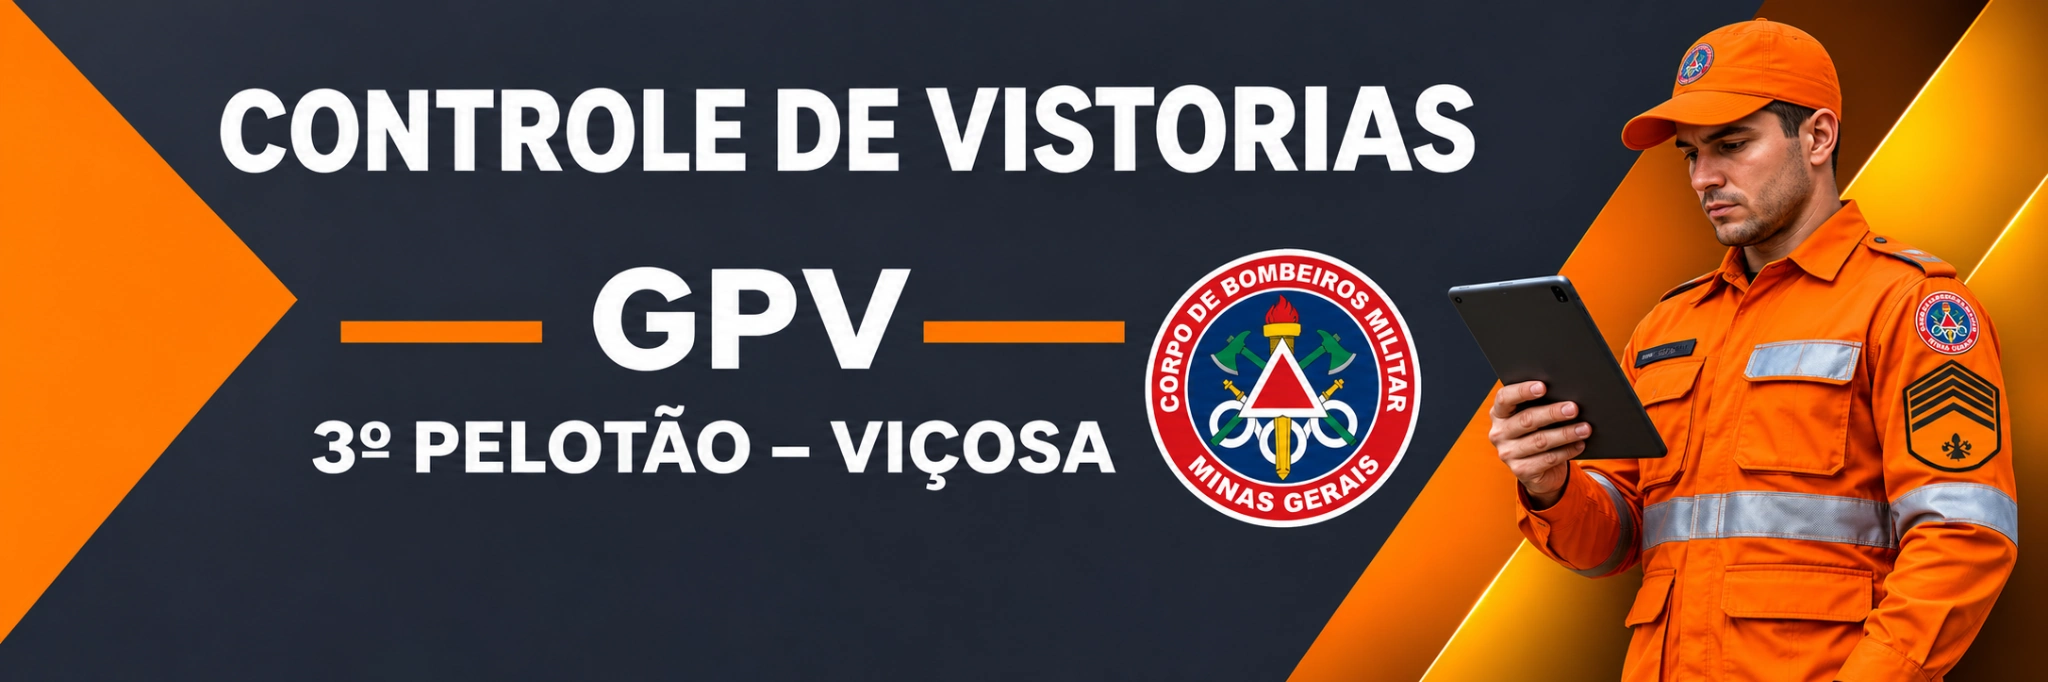
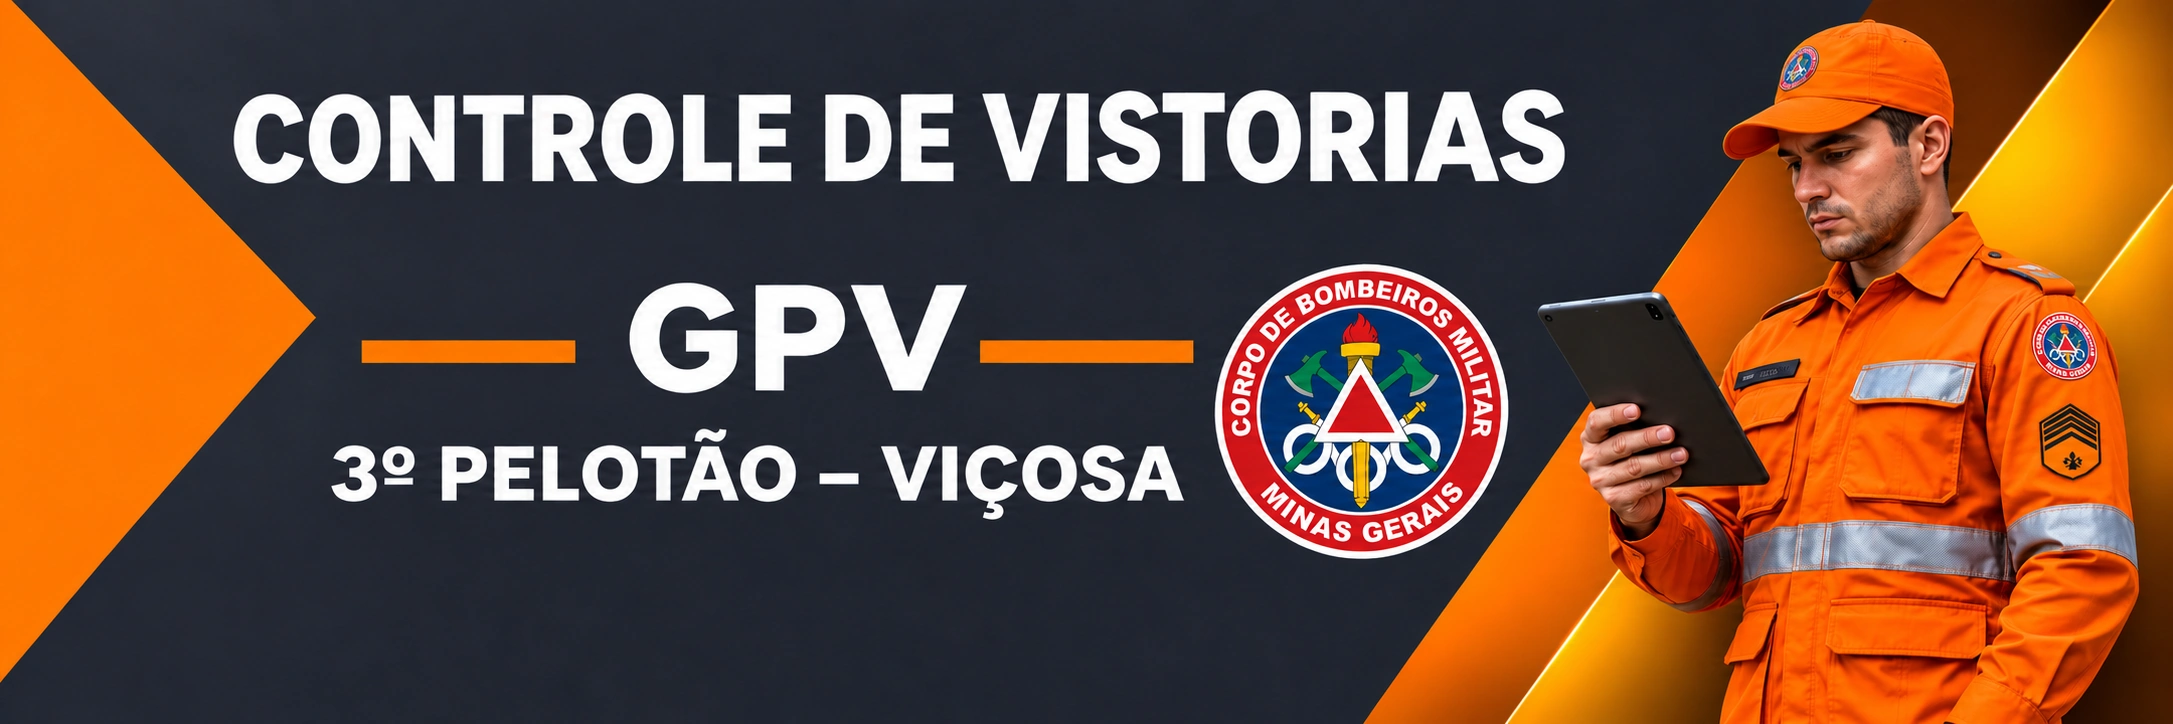
Add files via upload

diff --git a/index.html b/index.html
@@ -18,8 +18,8 @@
   <meta property="og:title" content="App do Vistoriador">
   <meta property="og:description" content="Aplicativo de apoio a vistoria, com suporte offline.">
   <meta property="og:url" content="https://gpvvicosa.github.io/controle-fiscalizatorio-gpv/">
-  <meta property="og:image" content="https://gpvvicosa.github.io/controle-fiscalizatorio-gpv/assets/miniatura-app-vistoriador-ch.jpg?v=23.9.99kg">
-  <meta property="og:image:secure_url" content="https://gpvvicosa.github.io/controle-fiscalizatorio-gpv/assets/miniatura-app-vistoriador-ch.jpg?v=23.9.99kg">
+  <meta property="og:image" content="https://gpvvicosa.github.io/controle-fiscalizatorio-gpv/assets/miniatura-app-vistoriador-ch.jpg?v=23.9.99kh">
+  <meta property="og:image:secure_url" content="https://gpvvicosa.github.io/controle-fiscalizatorio-gpv/assets/miniatura-app-vistoriador-ch.jpg?v=23.9.99kh">
   <meta property="og:image:type" content="image/jpeg">
   <meta property="og:image:width" content="1200">
   <meta property="og:image:height" content="675">
@@ -29,7 +29,7 @@
   <meta name="twitter:card" content="summary_large_image">
   <meta name="twitter:title" content="App do Vistoriador">
   <meta name="twitter:description" content="Aplicativo de apoio a vistoria, com suporte offline.">
-  <meta name="twitter:image" content="https://gpvvicosa.github.io/controle-fiscalizatorio-gpv/assets/miniatura-app-vistoriador-ch.jpg?v=23.9.99kg">
+  <meta name="twitter:image" content="https://gpvvicosa.github.io/controle-fiscalizatorio-gpv/assets/miniatura-app-vistoriador-ch.jpg?v=23.9.99kh">
 
   <link rel="canonical" href="https://gpvvicosa.github.io/controle-fiscalizatorio-gpv/">
   <title>App do Vistoriador</title>
@@ -44,11 +44,11 @@
       } catch (e) {}
     })();
   </script>
-  <link rel="manifest" href="app-vistoriador-ck.webmanifest?v=23.9.99kg">
-  <link rel="preload" as="image" href="assets/splash-app-vistoriador.webp?v=23.9.99kg" media="(max-width: 899px)" fetchpriority="high">
-  <link rel="preload" as="image" href="assets/splash-app-vistoriador-desktop.webp?v=23.9.99kg" media="(min-width: 900px)" fetchpriority="high">
-  <link rel="icon" type="image/png" sizes="192x192" href="assets/app-vistoriador-icon-192-ck.png?v=23.9.99kg">
-  <link rel="apple-touch-icon" href="assets/app-vistoriador-icon-192-ck.png?v=23.9.99kg">
+  <link rel="manifest" href="app-vistoriador-ck.webmanifest?v=23.9.99kh">
+  <link rel="preload" as="image" href="assets/splash-app-vistoriador.webp?v=23.9.99kh" media="(max-width: 899px)" fetchpriority="high">
+  <link rel="preload" as="image" href="assets/splash-app-vistoriador-desktop.webp?v=23.9.99kh" media="(min-width: 900px)" fetchpriority="high">
+  <link rel="icon" type="image/png" sizes="192x192" href="assets/app-vistoriador-icon-192-ck.png?v=23.9.99kh">
+  <link rel="apple-touch-icon" href="assets/app-vistoriador-icon-192-ck.png?v=23.9.99kh">
   <style id="gpv-critical-boot">
     html,body{margin:0;min-height:100%;font-family:Arial,Helvetica,sans-serif}
     html,body{background:#efe6dc}
@@ -56,7 +56,7 @@
     *,*::before,*::after{box-sizing:border-box}
     img{max-width:100%;height:auto}
     .hero-banner{display:block;width:100%;height:auto}
-    .auth-gate{display:none;position:fixed;inset:0;z-index:10000;align-items:center;justify-content:center;padding:18px;background:linear-gradient(180deg,rgba(45,3,5,.82),rgba(45,3,5,.96)),url("assets/splash-app-vistoriador.webp?v=23.9.99kg") center 28%/cover no-repeat}
+    .auth-gate{display:none;position:fixed;inset:0;z-index:10000;align-items:center;justify-content:center;padding:18px;background:linear-gradient(180deg,rgba(45,3,5,.82),rgba(45,3,5,.96)),url("assets/splash-app-vistoriador.webp?v=23.9.99kh") center 28%/cover no-repeat}
     .auth-gate.show{display:flex}
     .auth-card{width:min(440px,100%);max-height:94vh;overflow:auto;background:linear-gradient(180deg,rgba(76,10,12,.96),rgba(45,5,7,.98));border:1px solid rgba(246,190,55,.38);border-radius:24px;padding:24px 20px;text-align:center;color:#fff}
     .auth-logo-wrap{width:104px;height:104px;margin:0 auto 12px;border-radius:25px;overflow:hidden}
@@ -70,7 +70,7 @@
     .gpv-splash-status #loadingSubtext[hidden]{display:none!important}
     html.gpv-aux-entry body:not(.gpv-aux-auth-visible):not(.aux-notifications-mode)>*:not(#loadingOverlay):not(#authGate):not(#appStatus){visibility:hidden!important}
   </style>
-  <link rel="stylesheet" href="styles.css?v=23.9.99kg">
+  <link rel="stylesheet" href="styles.css?v=23.9.99kh">
   <style id="gpv-jz-mobile-choice-layer">
     /* V23.9.99jz — o seletor móvel precisa ficar acima dos modais de cadastro/ficha. */
     @media (max-width: 820px), (pointer: coarse) {
@@ -1884,7 +1884,7 @@
 
 
   <style id="gpv-kg-banner-institucional">
-    /* V23.9.99kg — exibe o banner aprovado por inteiro e ocupa menos espaço
+    /* V23.9.99kh — exibe o banner aprovado por inteiro e ocupa menos espaço
        entre a apresentação e a identificação do militar. Regras localizadas. */
     .page > .hero.gpv-kg-hero,
     body.records-mode .page > .hero.gpv-kg-hero,
@@ -1915,7 +1915,7 @@
       max-width:100%!important;
       height:auto!important;
       max-height:none!important;
-      aspect-ratio:2048 / 682!important;
+      aspect-ratio:2173 / 724!important;
       margin:0!important;
       padding:0!important;
       border:0!important;
@@ -1949,6 +1949,162 @@
       }
     }
   </style>
+
+  <style id="gpv-kh-ajustes-pendentes">
+    /* V23.9.99kh — melhorias visuais solicitadas. Não alterar rotas,
+       eventos dos botões, dados, contas, lógica offline nem Service Worker. */
+
+    /* Cabeçalho: a ARTE aprovada ocupa o interior da própria faixa grafite.
+       Em telas estreitas mantém o banner na posição anterior, inteiro. */
+    .topbar.app-header .gpv-kh-header-banner {display:none!important}
+    @media (min-width:1181px) {
+      .topbar.app-header {
+        background:#252c35!important;
+        border-bottom:3px solid #df8124!important;
+      }
+      .topbar.app-header .topbar-inner,
+      body.records-mode .topbar.app-header .topbar-inner {
+        min-height:0!important;
+        max-width:1600px!important;
+        display:flex!important;
+        align-items:center!important;
+        flex-wrap:nowrap!important;
+        gap:clamp(12px,2vw,28px)!important;
+        padding:6px clamp(14px,2vw,30px)!important;
+      }
+      .topbar.app-header .topbar-inner::before,
+      body.records-mode .topbar.app-header .topbar-inner::before {display:none!important}
+      .topbar.app-header .brand-mark,
+      .topbar.app-header .brand-dashboard,
+      .topbar.app-header .brand-form,
+      body.records-mode .topbar.app-header .brand-mark,
+      body.records-mode .topbar.app-header .brand-dashboard,
+      body.records-mode .topbar.app-header .brand-form,
+      body:not(.records-mode) .topbar.app-header .brand-mark,
+      body:not(.records-mode) .topbar.app-header .brand-form {
+        display:none!important;
+      }
+      .topbar.app-header .gpv-kh-header-banner,
+      body.records-mode .topbar.app-header .gpv-kh-header-banner {
+        display:flex!important;
+        align-items:center!important;
+        justify-content:flex-start!important;
+        flex:0 1 min(49vw,620px)!important;
+        width:min(49vw,620px)!important;
+        min-width:0!important;
+        margin:0!important;
+        padding:0!important;
+        border:0!important;
+        background:transparent!important;
+      }
+      .topbar.app-header .gpv-kh-header-banner img {
+        display:block!important;
+        width:100%!important;
+        height:auto!important;
+        max-height:none!important;
+        aspect-ratio:2173/724!important;
+        object-fit:contain!important;
+        border:0!important;
+        border-radius:0!important;
+        box-shadow:none!important;
+      }
+      .topbar.app-header .dashboard-header-actions,
+      body.records-mode .topbar.app-header .dashboard-header-actions {
+        margin-left:auto!important;
+        flex:0 0 auto!important;
+        justify-content:flex-end!important;
+        flex-wrap:nowrap!important;
+      }
+      /* O banner não ocupa mais uma seção própria no corpo da página em PC. */
+      .page > .hero.gpv-kg-hero,
+      body.records-mode .page > .hero.gpv-kg-hero,
+      body:not(.records-mode) .page > .hero.gpv-kg-hero {
+        display:none!important;
+        margin:0!important;
+        padding:0!important;
+      }
+    }
+
+    /* Cartão de pendências: contador é uma unidade indivisível. */
+    body.records-mode #recordsPanel #dashboardPendingCenterCard {
+      grid-template-columns:auto minmax(0,1fr) auto!important;
+      align-items:center!important;
+      min-width:0!important;
+    }
+    body.records-mode #recordsPanel #dashboardPendingCenterCard .programmed-summary-copy {
+      min-width:0!important;
+    }
+    body.records-mode #recordsPanel #dashboardPendingCenterCount {
+      display:inline-flex!important;
+      align-items:center!important;
+      justify-content:center!important;
+      flex:0 0 auto!important;
+      width:auto!important;
+      min-width:52px!important;
+      max-width:none!important;
+      min-height:44px!important;
+      height:auto!important;
+      padding:8px 10px!important;
+      white-space:nowrap!important;
+      word-break:normal!important;
+      overflow-wrap:normal!important;
+      line-height:1!important;
+      font-variant-numeric:tabular-nums!important;
+      text-align:center!important;
+      box-sizing:border-box!important;
+    }
+
+    /* Seta antiga era decorativa e sobrepunha 'Próxima ação'. Oculta SOMENTE
+       pseudo-elementos do campo; preserva conteúdo e botões adjacentes. */
+    body.records-mode #recordsPanel .records-card .records-card-action {
+      position:relative!important;
+      display:block!important;
+      padding:12px 13px!important;
+      min-width:0!important;
+      isolation:isolate;
+      overflow-wrap:anywhere!important;
+    }
+    body.records-mode #recordsPanel .records-card .records-card-action::before,
+    body.records-mode #recordsPanel .records-card .records-card-action::after,
+    body.records-mode #recordsPanel .records-card .records-card-action > span::before,
+    body.records-mode #recordsPanel .records-card .records-card-action > span::after,
+    body.records-mode #recordsPanel .records-card .records-card-action > strong::before,
+    body.records-mode #recordsPanel .records-card .records-card-action > strong::after,
+    body.records-mode #recordsPanel .records-card .records-card-action > small::before,
+    body.records-mode #recordsPanel .records-card .records-card-action > small::after {
+      content:none!important;
+      display:none!important;
+    }
+    body.records-mode #recordsPanel .records-card .records-card-action > span,
+    body.records-mode #recordsPanel .records-card .records-card-action > strong,
+    body.records-mode #recordsPanel .records-card .records-card-action > small {
+      position:relative!important;
+      z-index:1!important;
+      display:block!important;
+      clear:both!important;
+      margin-left:0!important;
+      padding-left:0!important;
+      text-indent:0!important;
+      max-width:100%!important;
+      overflow-wrap:anywhere!important;
+    }
+    body.records-mode #recordsPanel .records-card .records-card-action > span {
+      margin-bottom:4px!important;
+      line-height:1.25!important;
+    }
+    body.records-mode #recordsPanel .records-card .records-card-action > strong {
+      line-height:1.4!important;
+    }
+    body.records-mode #recordsPanel .records-card .records-card-action > small {
+      margin-top:4px!important;
+      line-height:1.4!important;
+    }
+    @media(max-width:720px){
+      body.records-mode #recordsPanel .records-card .records-card-action {
+        padding:12px 13px!important;
+      }
+    }
+  </style>
 </head>
 <body>
 <div id="appStatus" hidden aria-live="polite"></div>
@@ -1957,7 +2113,7 @@
   <div class="auth-gate" id="authGate" aria-hidden="false">
     <section class="auth-card" role="dialog" aria-modal="true" aria-labelledby="authTitle">
       <div class="auth-logo-wrap" aria-hidden="true">
-        <img src="assets/app-vistoriador-icon-512-ck.png?v=23.9.99kg" width="512" height="512" alt="">
+        <img src="assets/app-vistoriador-icon-512-ck.png?v=23.9.99kh" width="512" height="512" alt="">
       </div>
       <span class="auth-kicker">Controle de Vistorias</span>
       <h1 id="authTitle">App do Vistoriador</h1>
@@ -2017,7 +2173,7 @@
   <header class="topbar app-header">
     <div class="topbar-inner">
       <div class="brand-mark" aria-hidden="true">
-        <img class="brand-form-logo" src="assets/app-vistoriador-icon-192-ck.png?v=23.9.99kg" alt="">
+        <img class="brand-form-logo" src="assets/app-vistoriador-icon-192-ck.png?v=23.9.99kh" alt="">
         <img class="brand-dashboard-logo" src="assets/logo-cbmmg.png" alt="">
       </div>
 
@@ -2034,6 +2190,12 @@
         <small class="gpv-kf-brand-kicker">GPV · PREVENÇÃO E VISTORIA</small>
         <strong>Controle de Vistorias</strong>
         <span>3º PELOTÃO DE BOMBEIROS MILITAR · VIÇOSA</span>
+      </div>
+
+      <!-- Banner aprovado integrado à faixa grafite em telas grandes; duplicata
+           visual da imagem móvel, sem alterar links, botões ou suas permissões. -->
+      <div class="gpv-kh-header-banner">
+        <img src="assets/cabecalho.webp?v=23.9.99kh" width="2173" height="724" alt="Controle de Vistorias — GPV — 3º Pelotão Viçosa" decoding="async">
       </div>
 
       <div class="dashboard-header-actions" aria-label="Ações do painel">
@@ -2796,7 +2958,7 @@
 
   <main class="page">
     <section class="hero gpv-kg-hero" aria-label="Controle de Vistorias — GPV Viçosa">
-      <img class="hero-banner" src="assets/cabecalho.webp?v=23.9.99kg" width="2048" height="682" loading="eager" decoding="async" alt="Controle de Vistorias — GPV, 3º Pelotão Viçosa">
+      <img class="hero-banner" src="assets/cabecalho.webp?v=23.9.99kh" width="2173" height="724" loading="eager" decoding="async" alt="Controle de Vistorias — GPV, 3º Pelotão Viçosa">
     </section>
 
     <nav class="app-view-nav" aria-label="Áreas do aplicativo">
@@ -2909,7 +3071,7 @@
 
       <div class="dashboard-operational-alerts gpv-operational-overview" aria-label="Resumo operacional do dia">
         <button type="button" class="ddu-summary-card dashboard-ddu-summary-card" id="dduSummaryCard" hidden aria-label="Abrir DDU pendentes para vistoria">
-          <span class="ddu-summary-brand" aria-hidden="true"><img src="assets/logo-ddu-181.webp?v=23.9.99kg" alt=""></span>
+          <span class="ddu-summary-brand" aria-hidden="true"><img src="assets/logo-ddu-181.webp?v=23.9.99kh" alt=""></span>
           <span class="ddu-summary-copy"><strong>DDU aguardando vistoria</strong><small id="dduSummaryText">Carregando demandas...</small></span>
           <span class="ddu-summary-count" id="dduSummaryCount">—</span>
         </button>
@@ -3159,7 +3321,7 @@
           <div class="operational-shortcuts-grid" aria-label="Pendências operacionais">
             <div class="programmed-summary-row ddu-vistoria-summary-row" id="dduVistoriaSummaryRow" hidden>
               <button type="button" class="ddu-summary-card vistoria-ddu-summary-card" id="dduVistoriaSummaryCard" aria-label="Abrir DDU pendentes para vistoria">
-                <span class="ddu-summary-brand" aria-hidden="true"><img src="assets/logo-ddu-181.webp?v=23.9.99kg" alt=""></span>
+                <span class="ddu-summary-brand" aria-hidden="true"><img src="assets/logo-ddu-181.webp?v=23.9.99kh" alt=""></span>
                 <span class="ddu-summary-copy"><strong>DDU aguardando vistoria</strong><small id="dduVistoriaSummaryText">Carregando demandas...</small></span>
                 <span class="ddu-summary-count" id="dduVistoriaSummaryCount">—</span>
               </button>
@@ -4813,7 +4975,7 @@
 
   <div class="review-overlay" id="dduRegisterModal" hidden>
     <div class="review-card prepare-modal-card" role="dialog" aria-modal="true" aria-labelledby="dduRegisterTitle">
-      <div class="review-head ddu-register-head"><div class="ddu-register-title-wrap"><span class="ddu-register-brand" aria-hidden="true"><img src="assets/logo-ddu-181.webp?v=23.9.99kg" alt=""></span><div><h2 id="dduRegisterTitle">Cadastrar DDU</h2><p>Demanda recebida pelo DDU — Disque Denúncia Unificado. Após salvar, o DDU ficará disponível para toda a equipe do GPV até a conclusão da vistoria.</p></div></div><button class="icon-btn" id="dduRegisterCloseBtn" type="button">×</button></div>
+      <div class="review-head ddu-register-head"><div class="ddu-register-title-wrap"><span class="ddu-register-brand" aria-hidden="true"><img src="assets/logo-ddu-181.webp?v=23.9.99kh" alt=""></span><div><h2 id="dduRegisterTitle">Cadastrar DDU</h2><p>Demanda recebida pelo DDU — Disque Denúncia Unificado. Após salvar, o DDU ficará disponível para toda a equipe do GPV até a conclusão da vistoria.</p></div></div><button class="icon-btn" id="dduRegisterCloseBtn" type="button">×</button></div>
       <div class="review-body"><div class="grid prepare-grid">
         <div class="field"><label for="dduNumero">Nº / identificação do DDU</label><input id="dduNumero" autocomplete="off"></div>
         <div class="field"><label for="dduRecebimento">Data de recebimento</label><input id="dduRecebimento" type="date"></div>
@@ -4894,7 +5056,7 @@
   <div class="review-overlay" id="dduListModal" hidden>
     <div class="review-card ddu-list-card" role="dialog" aria-modal="true" aria-labelledby="dduListTitle">
       <div class="review-head ddu-list-head">
-        <div class="ddu-list-title-wrap"><span class="ddu-list-title-brand" aria-hidden="true"><img src="assets/logo-ddu-181.webp?v=23.9.99kg" alt=""></span><div><h2 id="dduListTitle">DDU — Disque Denúncia Unificado</h2><small>Demandas compartilhadas pela equipe do GPV • 181</small></div></div>
+        <div class="ddu-list-title-wrap"><span class="ddu-list-title-brand" aria-hidden="true"><img src="assets/logo-ddu-181.webp?v=23.9.99kh" alt=""></span><div><h2 id="dduListTitle">DDU — Disque Denúncia Unificado</h2><small>Demandas compartilhadas pela equipe do GPV • 181</small></div></div>
         <button class="icon-btn" id="dduListCloseBtn" type="button" aria-label="Fechar DDU">×</button>
       </div>
       <div class="review-body ddu-list-body"><div id="dduListStatus" class="ddu-list-status"></div><div id="dduList" class="ddu-list"></div></div>
@@ -4964,7 +5126,7 @@
     <section class="review-card registered-inspection-detail-card" role="dialog" aria-modal="true" aria-labelledby="registeredInspectionDetailTitle">
       <div class="review-head registered-inspection-detail-head">
         <div class="registered-inspection-detail-title-wrap">
-          <span class="registered-inspection-detail-brand" id="registeredInspectionDetailBrand" aria-hidden="true" hidden><img src="assets/logo-ddu-181.webp?v=23.9.99kg" alt=""></span>
+          <span class="registered-inspection-detail-brand" id="registeredInspectionDetailBrand" aria-hidden="true" hidden><img src="assets/logo-ddu-181.webp?v=23.9.99kh" alt=""></span>
           <div>
             <div class="registered-inspection-detail-eyebrow-row">
               <span class="registered-inspection-detail-kicker" id="registeredInspectionDetailKicker">Vistoria cadastrada</span>
@@ -5155,7 +5317,7 @@
           <span class="useful-link-arrow" aria-hidden="true">↗</span>
         </a>
         <a class="useful-link-card" data-link-tone="blue" href="https://web.sids.mg.gov.br/ddu/#/dashboard" target="_blank" rel="noopener noreferrer">
-          <span class="useful-link-icon useful-link-ddu-brand" aria-hidden="true"><img src="assets/logo-ddu-181.webp?v=23.9.99kg" alt=""></span>
+          <span class="useful-link-icon useful-link-ddu-brand" aria-hidden="true"><img src="assets/logo-ddu-181.webp?v=23.9.99kh" alt=""></span>
           <span><strong>DDU</strong><small>Painel e consultas operacionais</small></span>
           <span class="useful-link-arrow" aria-hidden="true">↗</span>
         </a>
@@ -5496,13 +5658,13 @@
     <picture class="gpv-splash-picture" aria-hidden="true">
       <source
         media="(min-width: 900px)"
-        srcset="assets/splash-app-vistoriador-desktop.webp?v=23.9.99kg"
+        srcset="assets/splash-app-vistoriador-desktop.webp?v=23.9.99kh"
         width="1672"
         height="941"
       >
       <img
         class="gpv-splash-art"
-        src="assets/splash-app-vistoriador.webp?v=23.9.99kg"
+        src="assets/splash-app-vistoriador.webp?v=23.9.99kh"
         alt=""
         width="941"
         height="1672"
@@ -5666,10 +5828,10 @@
       <button id="gpvUpdateLaterBtn" type="button">Depois</button>
     </div>
   </aside>
-  <script src="config.js?v=23.9.99kg"></script>
-  <script src="ocupacoes.js?v=23.9.99kg"></script>
-  <script src="notificacoes-infoscip.js?v=23.9.99kg"></script>
-  <script src="app.js?v=23.9.99kg"></script>
+  <script src="config.js?v=23.9.99kh"></script>
+  <script src="ocupacoes.js?v=23.9.99kh"></script>
+  <script src="notificacoes-infoscip.js?v=23.9.99kh"></script>
+  <script src="app.js?v=23.9.99kh"></script>
 
 </body>
 </html>

diff --git a/sw.js b/sw.js
@@ -1,3 +1,4 @@
+// V23.9.99kh — cache do banner revisado e topo integrado; ativação KB preservada.
 // V23.9.99kg — imagem do banner institucional pré-armazenada para offline; ativação KB inalterada.
 // V23.9.99kf — shell do topo premium; ativação protegida da KB inalterada.
 // V23.9.99ke — novo shell de indicadores responsivos; preserva ativação controlada da KB.
@@ -45,9 +46,9 @@
 // V23.9.99hm — atualizações descobertas após a abertura ficam em segundo plano até a próxima abertura ou ação manual.
 // V23.9.99hl — shell da abertura confiável com saudação e continuidade visual dos registros recentes.
 // V23.9.99hk — shell do rollback controlado das Metas para a rotina estável HG com backend HK.
-const CACHE_NAME = 'gpv-vistorias-shell-20261104-v23-9-99-kg-banner-institucional';
+const CACHE_NAME = 'gpv-vistorias-shell-20261104-v23-9-99-kh-topo-integrado';
 const RUNTIME_CACHE_NAME = 'gpv-vistorias-runtime-documentos-v1';
-const VERSION = '23.9.99kg';
+const VERSION = '23.9.99kh';
 
 // V23.9.99hj — restaura o contrato estável de consulta das Metas através do gateway; backend HI preservado.
 // V23.9.99hi — novo shell publica revalidação das Metas e backend HI para Eventos declaratórios.

diff --git a/app.js b/app.js
@@ -1,3 +1,4 @@
+// V23.9.99kh — topo integrado no desktop, contadores e setas visuais corrigidos; mantém KG/KF/KB.
 // V23.9.99kg — banner institucional aprovado na home; mantém integralmente KF, KE e KB.
 // V23.9.99ke — indicadores compactos e responsivos (apenas estilo da home); preserva a KD/KC/KB.
 // V23.9.99kd — refinamento de processos no mobile e legibilidade do Painel desktop; preserva a KC/KB.
@@ -75,7 +76,7 @@
       const AUTH_SHARED_DEVICE_STORAGE = 'gpvVistoriasDispositivoCompartilhadoV1';
       const AUTH_LIMITED_SESSION_HOURS = 10;
       const AUTH_CLIENT_VERSION = 'bm-v1';
-      const APP_VERSION = '23.9.99kg';
+      const APP_VERSION = '23.9.99kh';
       const APP_VERSION_DATE = '04/11/2026';
       const appBuildInfo = document.getElementById('appBuildInfo');
       if (appBuildInfo) appBuildInfo.textContent = `App do Vistoriador • V${APP_VERSION} • ${APP_VERSION_DATE}`;
